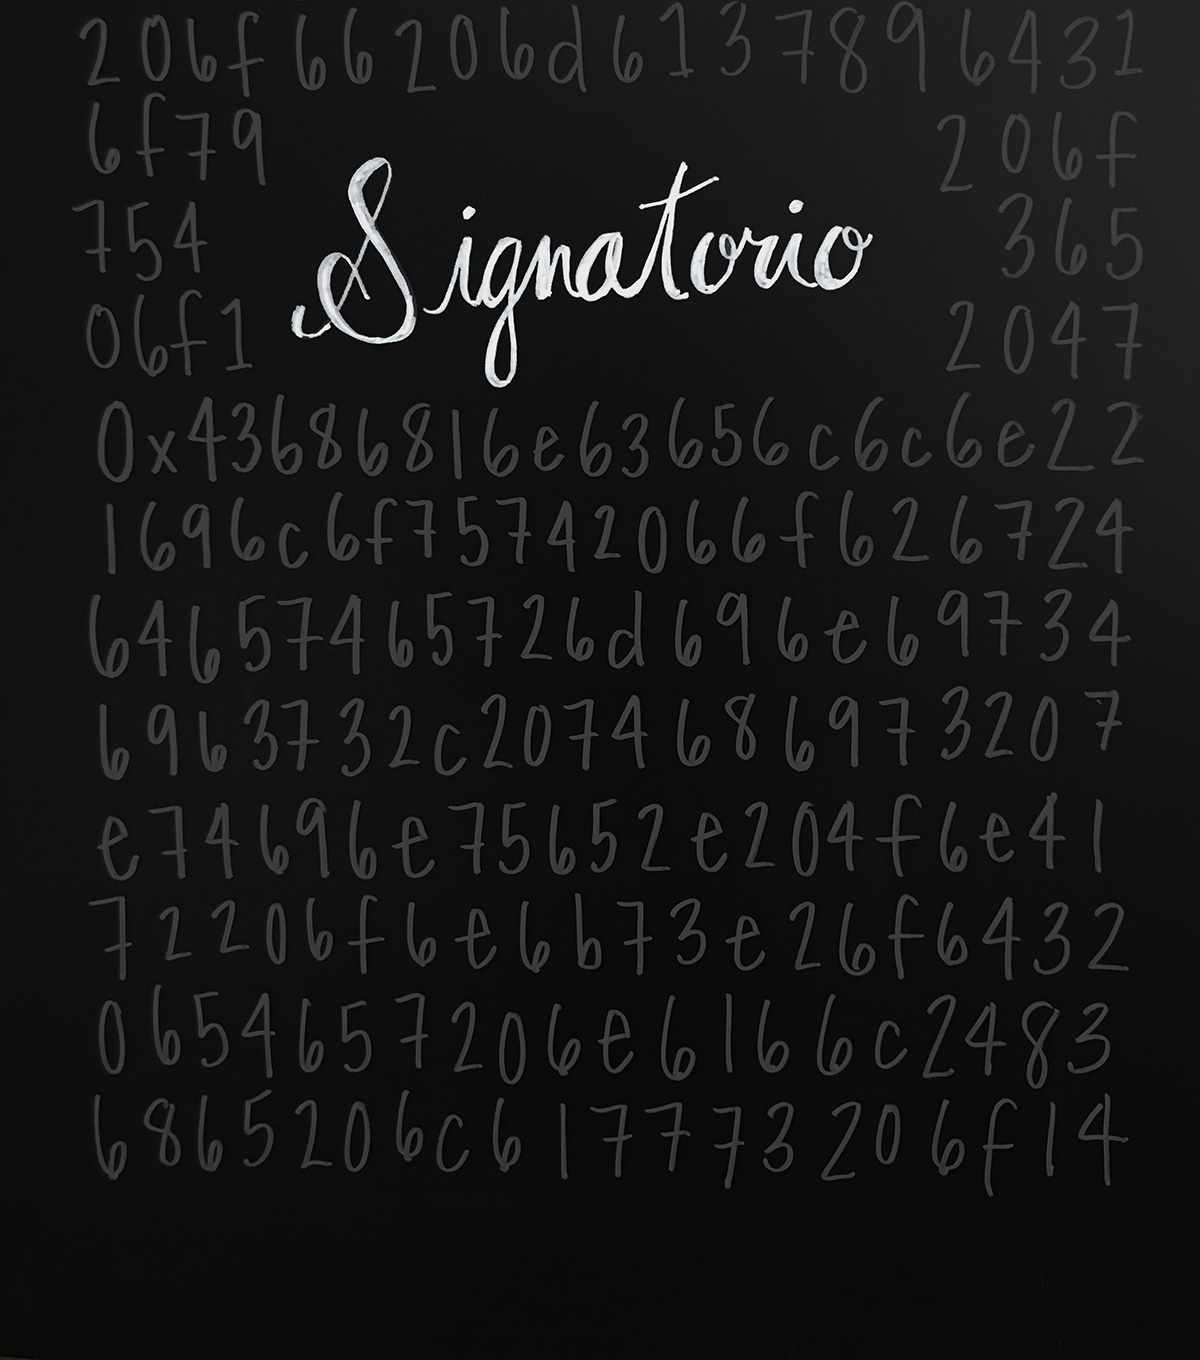
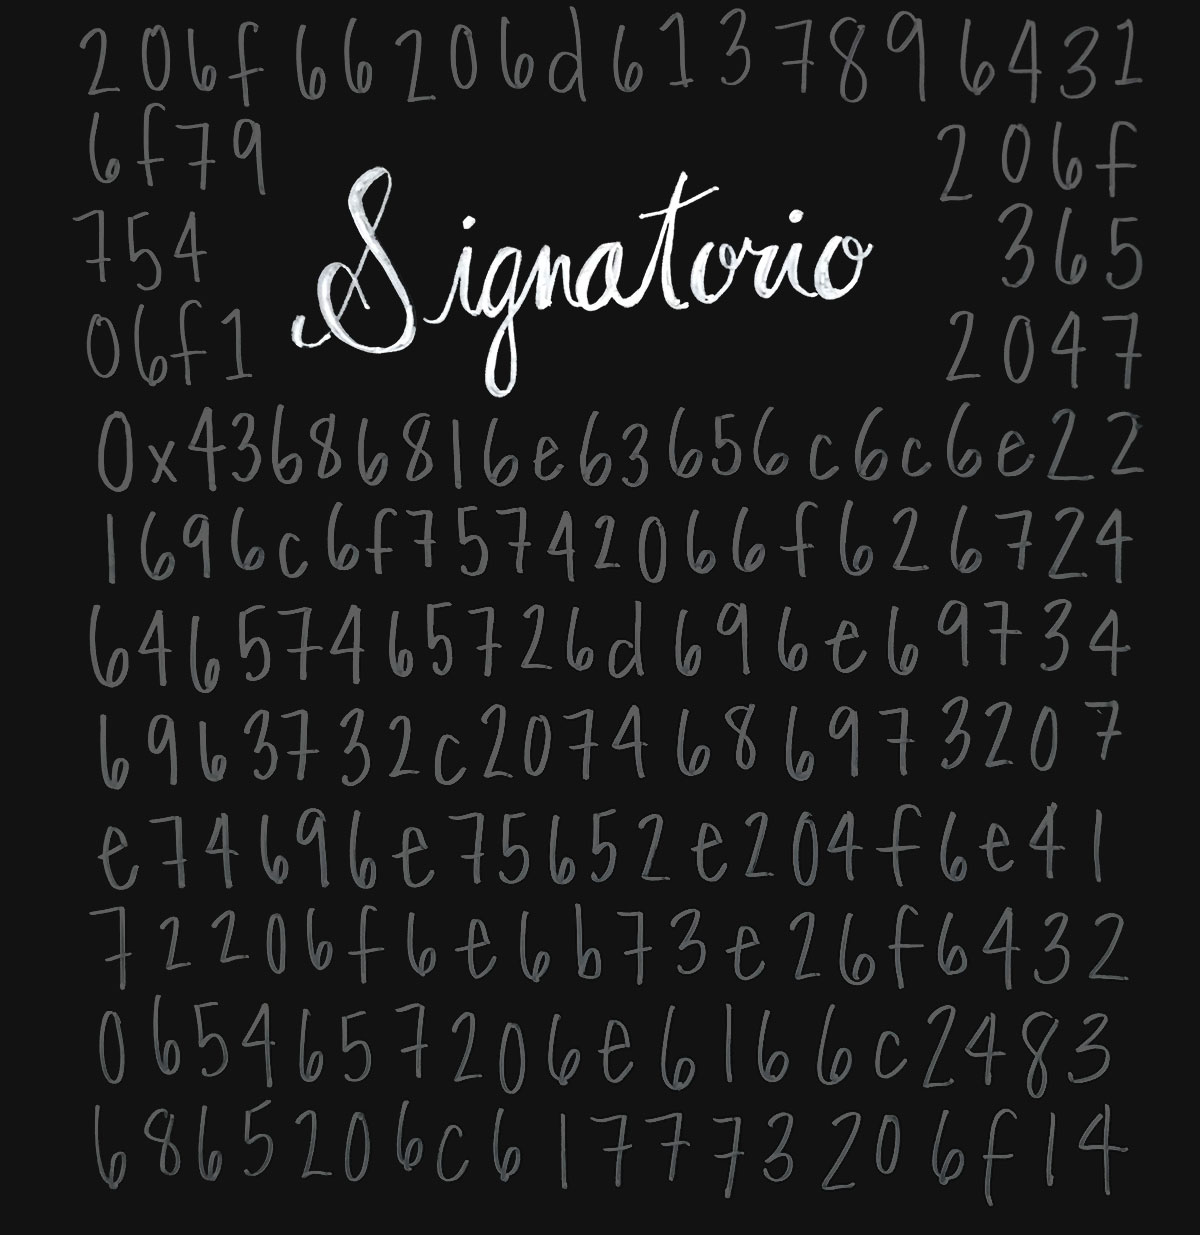
use new background image

diff --git a/packages/react-app/src/Signator.jsx b/packages/react-app/src/Signator.jsx
@@ -93,15 +93,10 @@ function Signator({ injectedProvider, mainnetProvider, address }) {
 
       let _signature;
       if (type === "typedData") {
-        _signature = await injectedProvider.send("eth_signTypedData_v4", [
-          address.toLowerCase(),
-          JSON.stringify(
-            ethers.utils._TypedDataEncoder.getPayload(typedData.domain, typedData.types, typedData.message),
-          ),
-        ]);
+        _signature = await injectedSigner._signTypedData(typedData.domain, typedData.types, typedData.message);
 
         const _compressedData = await codec.compress(typedData);
-        console.log(_compressedData);
+
         searchParams.set("typedData", _compressedData);
       } else if (type === "message") {
         const _messageToSign = ethers.utils.isBytesLike(_message) ? ethers.utils.arrayify(_message) : _message;
@@ -132,7 +127,7 @@ function Signator({ injectedProvider, mainnetProvider, address }) {
   return (
     <div className="container">
       <Card>
-        <Space direction="vertical">
+        <Space direction="vertical" style={{ width: "100%" }}>
           <Radio.Group
             value={type}
             buttonStyle="solid"
@@ -157,7 +152,7 @@ function Signator({ injectedProvider, mainnetProvider, address }) {
                 }}
               />
 
-              <div>
+              <div style={{ marginTop: 20 }}>
                 <Space>
                   <Radio.Group
                     value={metaData}
@@ -185,7 +180,7 @@ function Signator({ injectedProvider, mainnetProvider, address }) {
                   )}
                 </Space>
               </div>
-              <div>
+              <div style={{ marginTop: 20 }}>
                 <Checkbox
                   style={{ fontSize: 18 }}
                   checked={hashMessage}
@@ -235,7 +230,14 @@ function Signator({ injectedProvider, mainnetProvider, address }) {
             </>
           )}
 
-          <Button size="large" type="primary" onClick={signMessage} disabled={!injectedProvider} loading={signing}>
+          <Button
+            size="large"
+            type="primary"
+            onClick={signMessage}
+            disabled={!injectedProvider}
+            loading={signing}
+            style={{ marginTop: 10 }}
+          >
             {injectedProvider ? "Sign" : "Connect account to sign"}
           </Button>
         </Space>

diff --git a/packages/react-app/src/App.jsx b/packages/react-app/src/App.jsx
@@ -1,8 +1,8 @@
-import { StaticJsonRpcProvider, Web3Provider } from "@ethersproject/providers";
 import WalletConnectProvider from "@walletconnect/web3-provider";
 import { Button } from "antd";
 import "antd/dist/antd.css";
 import { useUserAddress } from "eth-hooks";
+import { ethers } from "ethers";
 import React, { useCallback, useEffect, useState } from "react";
 import { BrowserRouter, Route, Switch } from "react-router-dom";
 import Web3Modal from "web3modal";
@@ -23,8 +23,9 @@ const DEBUG = true;
 
 // 🛰 providers
 if (DEBUG) console.log("📡 Connecting to Mainnet Ethereum");
-const scaffoldEthProvider = new StaticJsonRpcProvider("https://rpc.scaffoldeth.io:48544");
-const mainnetInfura = new StaticJsonRpcProvider("https://mainnet.infura.io/v3/" + INFURA_ID);
+
+const scaffoldEthProvider = new ethers.providers.StaticJsonRpcProvider("https://rpc.scaffoldeth.io:48544");
+const mainnetInfura = new ethers.providers.StaticJsonRpcProvider("https://mainnet.infura.io/v3/" + INFURA_ID);
 
 // 🔭 block explorer URL
 const blockExplorer = targetNetwork.blockExplorer;
@@ -62,16 +63,16 @@ function App() {
 
   const loadWeb3Modal = useCallback(async () => {
     const provider = await web3Modal.connect();
-    setInjectedProvider(new Web3Provider(provider));
+    setInjectedProvider(new ethers.providers.Web3Provider(provider));
 
     provider.on("chainChanged", chainId => {
       console.log(`chain changed to ${chainId}! updating providers`);
-      setInjectedProvider(new Web3Provider(provider));
+      setInjectedProvider(new ethers.providers.Web3Provider(provider));
     });
 
     provider.on("accountsChanged", () => {
       console.log(`account changed!`);
-      setInjectedProvider(new Web3Provider(provider));
+      setInjectedProvider(new ethers.providers.Web3Provider(provider));
     });
 
     // Subscribe to session disconnection

diff --git a/packages/react-app/src/App.css b/packages/react-app/src/App.css
@@ -15,6 +15,11 @@
   padding-right: 20px;
 }
 
+.App .ant-page-header-heading-extra {
+  padding: 5px;
+  background: rgba(0, 0, 0, 0.75);
+}
+
 .App .ant-card {
   background-color: rgba(0, 0, 0, 0.75);
   border-color: #000;
